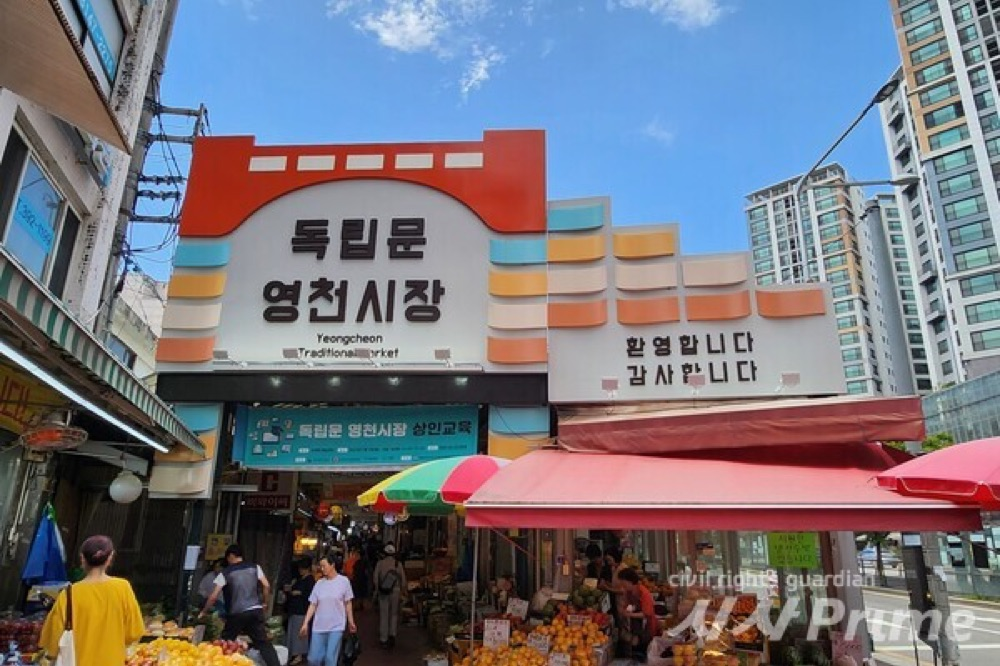
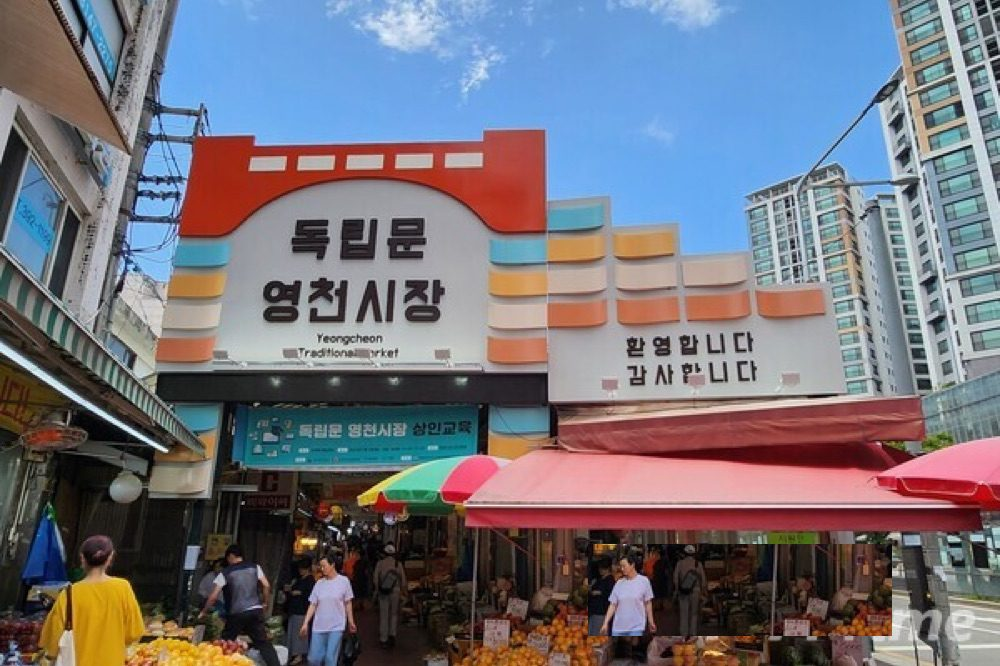
fix(content): 영천시장(A9)·익선동(D4) 'AJU Prime' 워터마크 제거(클론 스탬프)
- A9: 중앙 대형 워터마크 → 좌측 동일 y밴드 produce 클론, 히어로 클린
- D4: 우하단 'AJU프라임' → 상단 클론(벽돌기둥 보존), 히어로 클린
- 사용자 승인(불완전 가능). SW VERSION bump

Changed region(s): [[0.589, 0.8108, 0.899, 0.961]]

diff --git a/sw.js b/sw.js
@@ -5,7 +5,7 @@
 // ⚠ VERSION은 배포 파이프라인이 자동 치환(master 스테이징 시 sed로 배포 타임스탬프 주입, 예: v20260612-185928).
 //   수동 bump 불필요 — 새 배포마다 sw.js 바이트가 바뀌어 브라우저가 신본 감지→skipWaiting→재방문 시 교체.
 //   ★아래 VERSION 라인 형식을 파이프라인 sed가 매칭하므로 라인 구조 유지. file://는 SW 미지원(https/localhost 전용).
-const VERSION = 'v20260615-143130';
+const VERSION = 'v20260615-143935';
 const CACHE = `jgd-${VERSION}`;
 
 // 정적 사전캐시(오프라인 첫 진입 대비). 개별 add로 일부 실패 무시. seed.js는 폴백용(런타임은 네트워크 우선).
